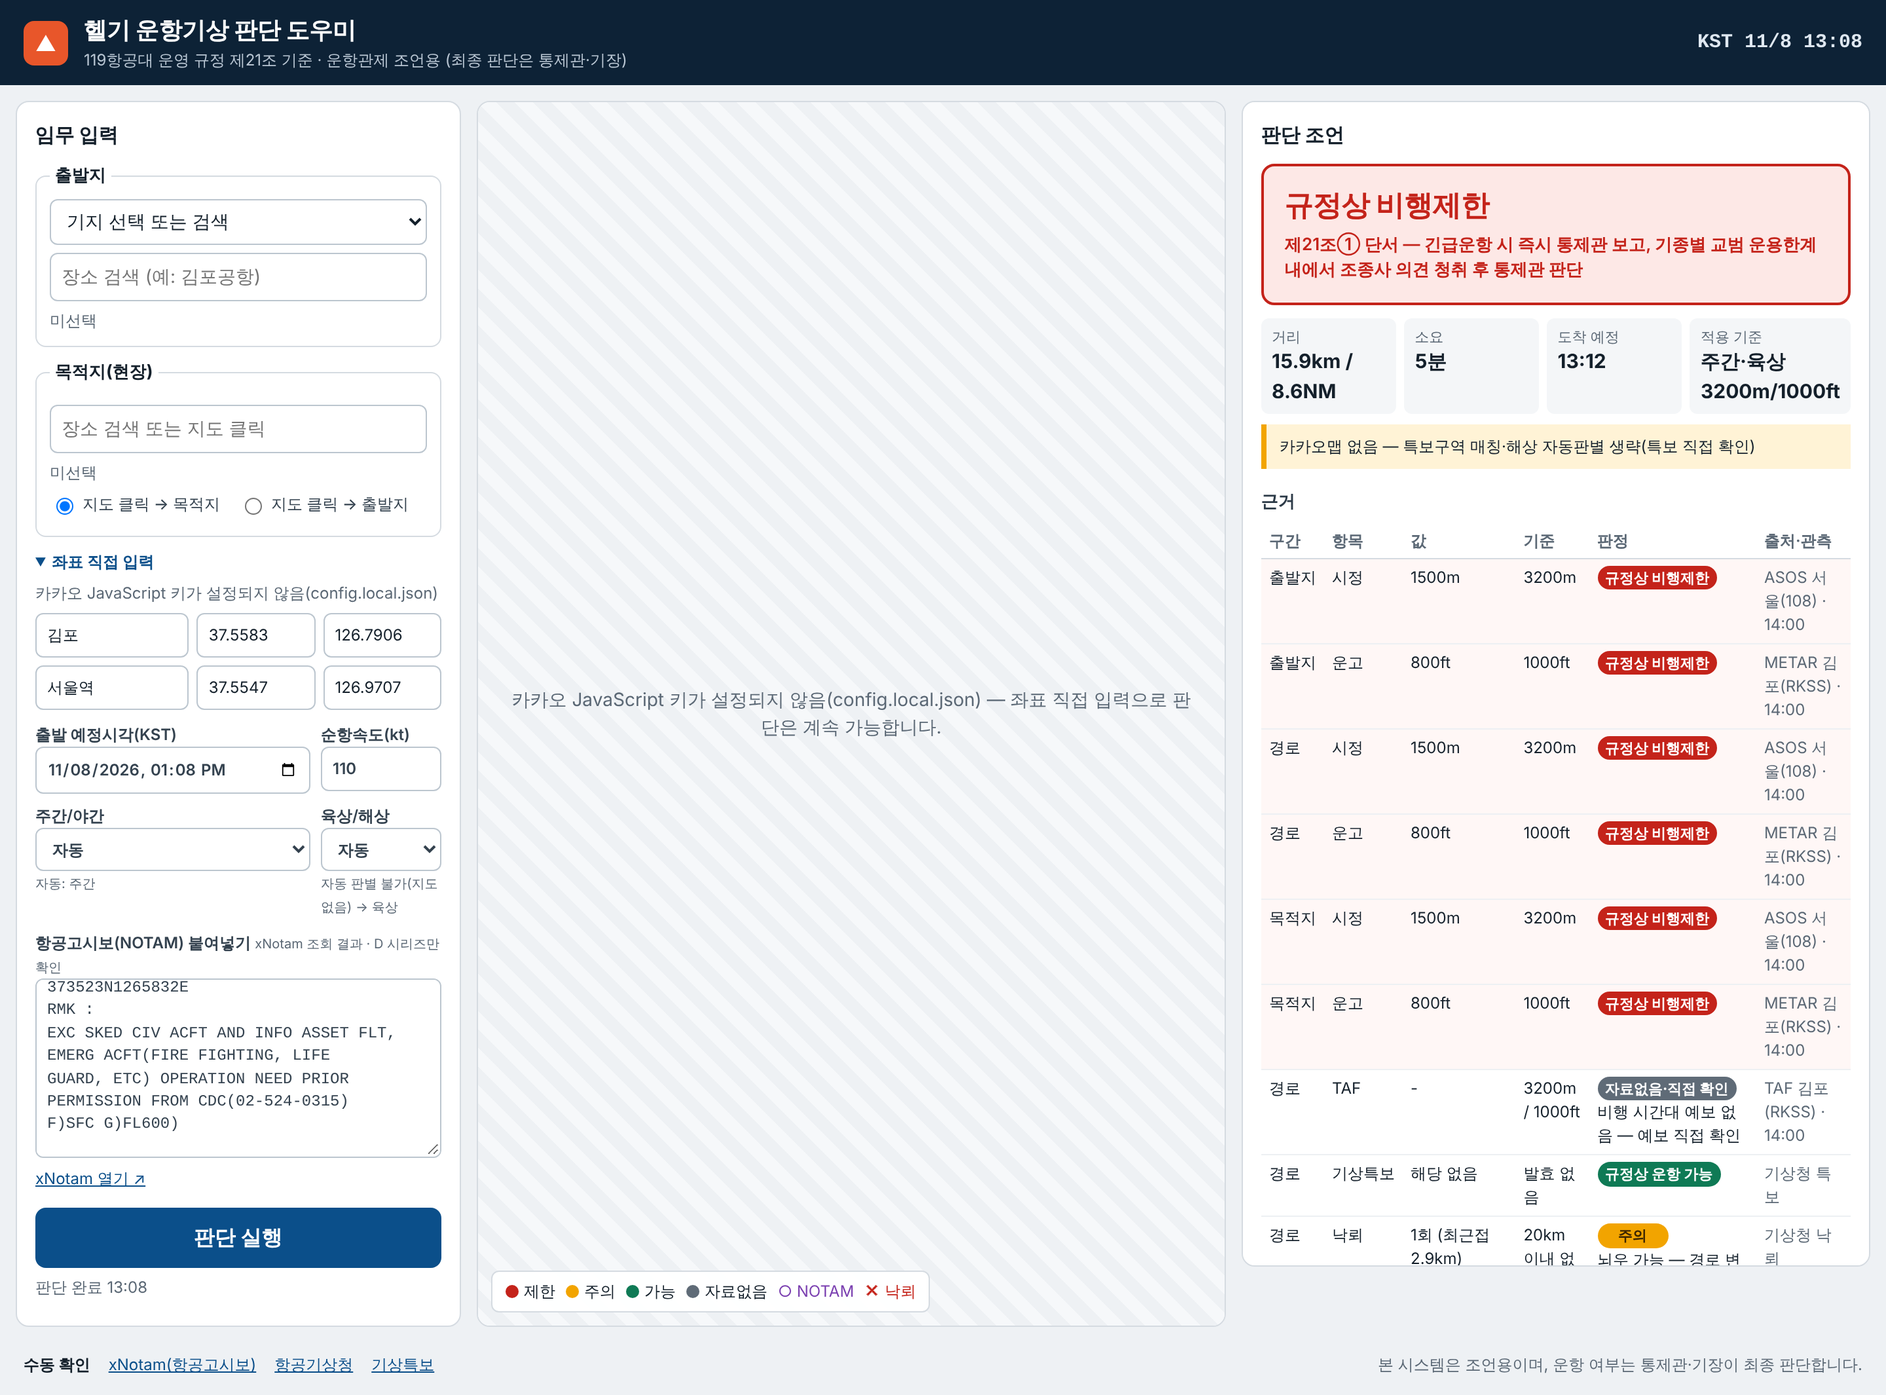
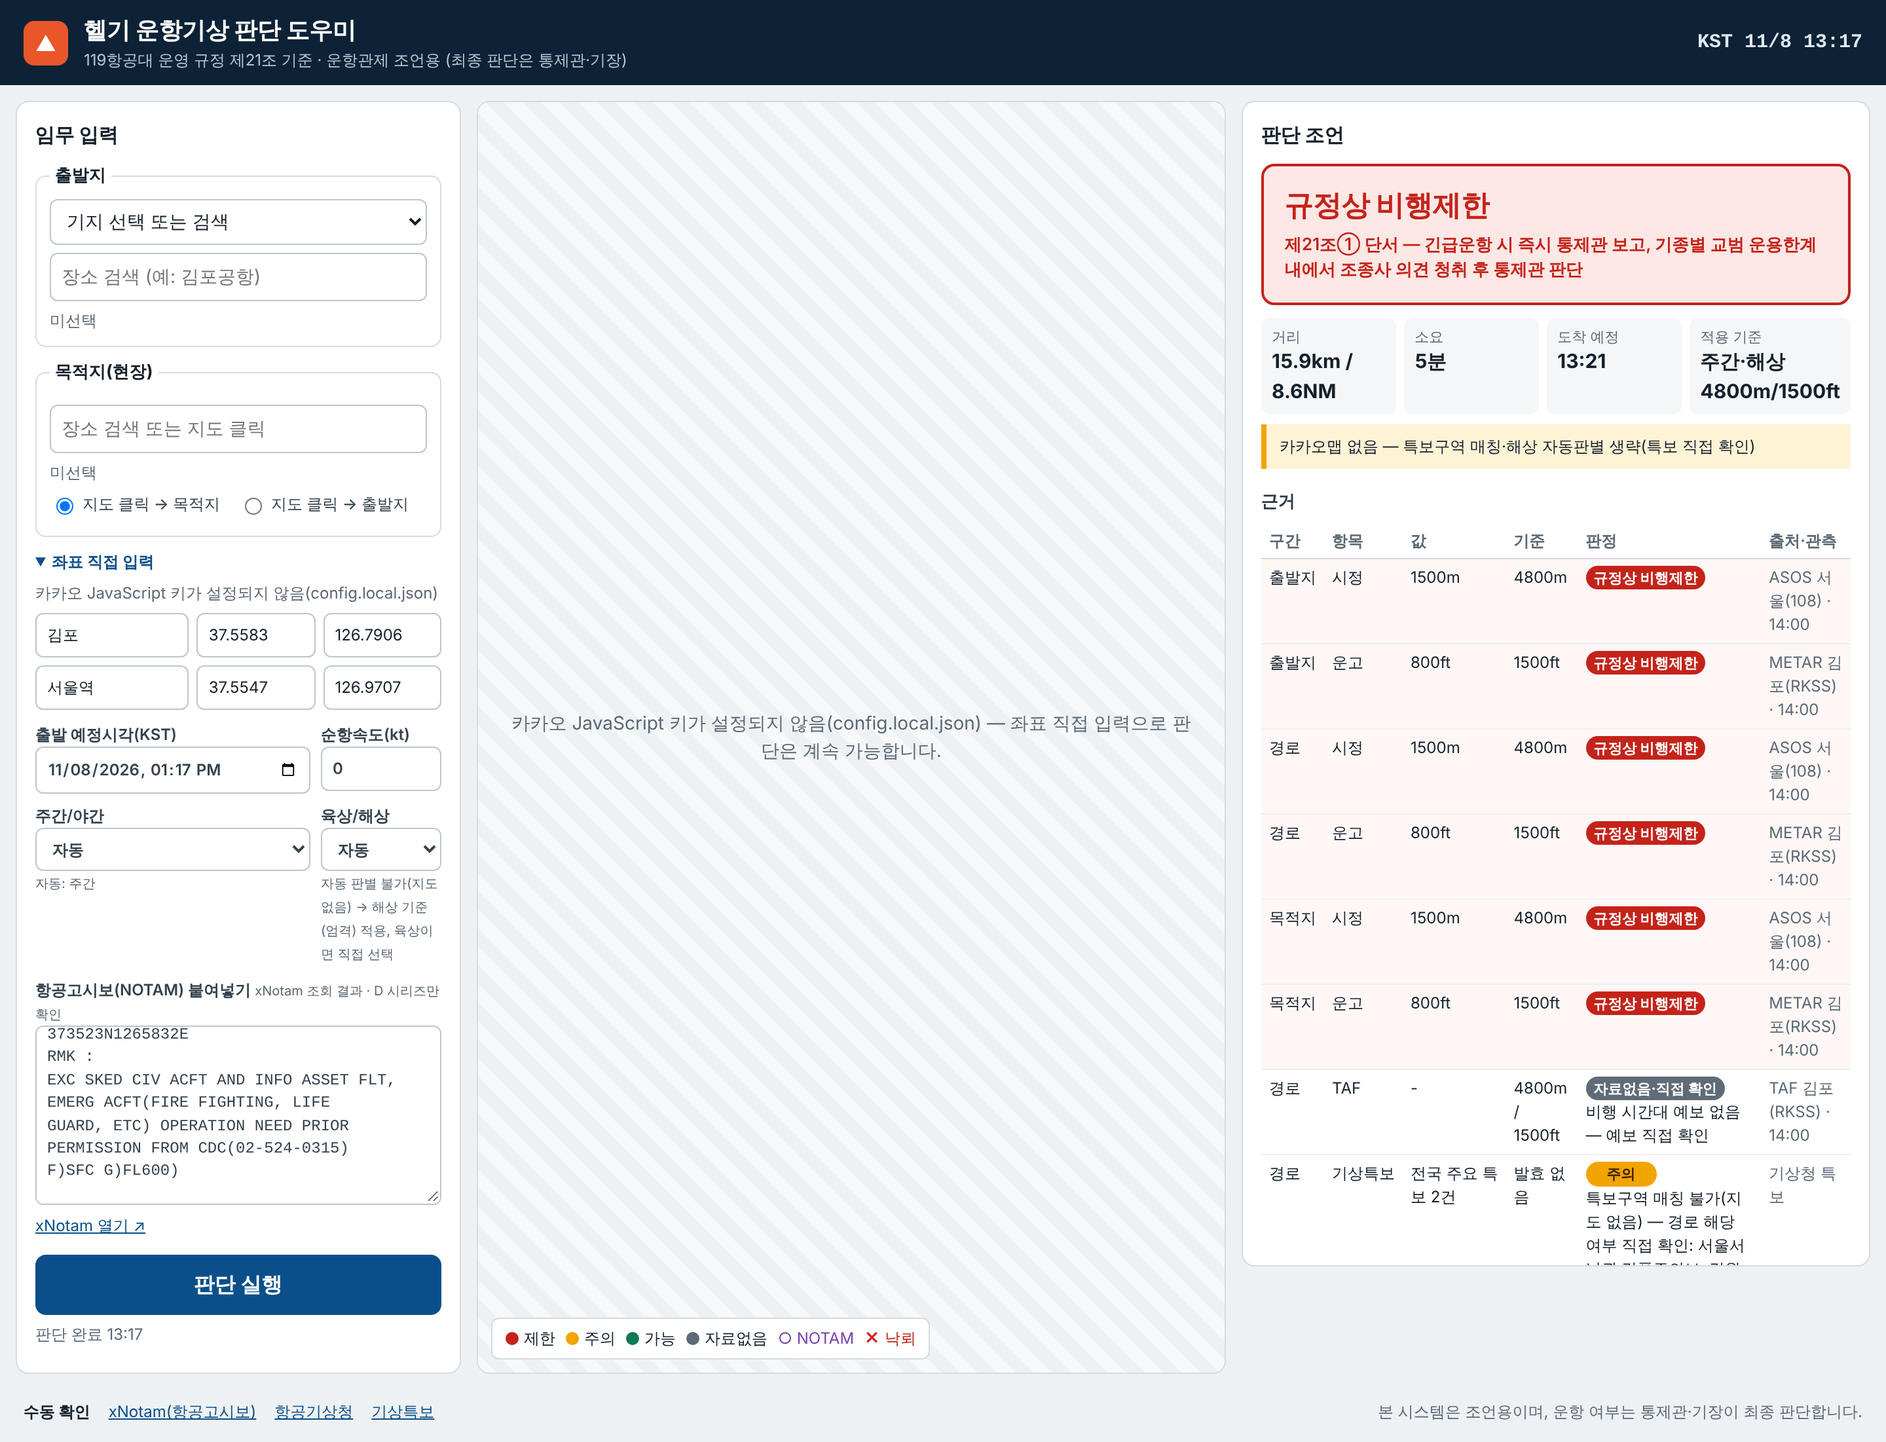
fix: 자료 없음·해석 실패 시 '운항 가능' 표시되던 경로 차단(최종 리뷰 반영)
Claude-Session: https://claude.ai/code/session_01D4aUP7G1VT7bA5gXLCwCsY

diff --git a/web/judge.js b/web/judge.js
@@ -45,7 +45,7 @@ function nearest(items, p, maxKm) {
 const alongRoute = (items, a, b, maxKm) => items.filter((it) => has(it) && pointToSegmentKm(it, a, b) <= maxKm);
 
 // 관측 하나가 '운고 정보'를 가지고 있는지(구름 적음 = 운고 없음과 결측을 구분)
-const hasCeilInfo = (o) => (o.icao ? o.visM !== null && o.visM !== undefined : o.cloudTenths !== null && o.cloudTenths !== undefined);
+const hasCeilInfo = (o) => (o.ceilUnknown ? false : o.icao ? o.visM !== null && o.visM !== undefined : o.cloudTenths !== null && o.cloudTenths !== undefined);
 const srcName = (o) => (o.icao ? `METAR ${o.name}(${o.icao})` : `ASOS ${o.name}(${o.stn})`);
 
 function obsRows(segment, obs, limits, input) {
@@ -102,17 +102,26 @@ function tafRows(tafs, limits, departUtc, arriveUtc) {
 const sidoKey = (s) => String(s || '').replace(/(특별자치도|특별자치시|특별시|광역시|도)$/, '');
 const sggKey = (s) => String(s || '').split(' ')[0].replace(/(시|군|구)$/, '');
 
-function warnRows(warns, regions, status) {
+function warnRows(warns, regions, status, regionsAvailable, seaRoute) {
   if (status === 'error') return [{ segment: '경로', item: '기상특보', value: '-', limit: '발효 없음', grade: 'NA', source: '기상청 특보', obsTime: null, note: '특보 자료 수신 실패 — 직접 확인' }];
+  const active = warns.filter((w) => !/해제/.test(w.cmd || ''));
+  const isCritical = (w) => CRITICAL_WARN.includes(w.kind) && /주의보|경보/.test(w.level || '');
+  if (!regionsAvailable) {
+    const crit = active.filter(isCritical);
+    if (!crit.length) return [{ segment: '경로', item: '기상특보', value: '전국 주요 특보 없음', limit: '발효 없음', grade: 'GREEN', source: '기상청 특보', obsTime: null, note: '' }];
+    return [{ segment: '경로', item: '기상특보', value: `전국 주요 특보 ${crit.length}건`, limit: '발효 없음', grade: 'YELLOW', source: '기상청 특보', obsTime: null,
+      note: '특보구역 매칭 불가(지도 없음) — 경로 해당 여부 직접 확인: ' + crit.slice(0, 5).map((w) => `${w.regName} ${w.kind}${w.level}`).join(', ') }];
+  }
   const rows = [];
-  for (const w of warns) {
-    if (/해제/.test(w.cmd || '')) continue;
+  for (const w of active) {
     const critical = CRITICAL_WARN.includes(w.kind) && /주의보|경보/.test(w.level || '');
     const exact = regions.some((r) => { const k = sggKey(r.sigungu); return k.length >= 2 && String(w.regName || '').includes(k); });
     const sido = regions.some((r) => sidoKey(r.sido) && sidoKey(r.sido) === sidoKey(w.regUpName));
+    const seaZone = seaRoute && critical && /바다|해상|연안/.test(w.regName || '');
     let grade = null, note = '';
     if (exact) { grade = critical ? 'RED' : 'YELLOW'; note = critical ? '경로·목적지 특보구역 발효(제21조①4)' : '참고 특보 발효'; }
     else if (sido && critical) { grade = 'YELLOW'; note = '같은 시·도 특보 — 특보구역 확인 필요'; }
+    else if (seaZone) { grade = 'YELLOW'; note = '해상 구간 — 해상 특보구역 확인 필요'; }
     if (grade) rows.push({ segment: '경로', item: '기상특보', value: `${w.regName} ${w.kind}${w.level}`, limit: '발효 없음', grade, source: '기상청 특보', obsTime: w.tmEf || null, note });
   }
   if (!rows.length) rows.push({ segment: '경로', item: '기상특보', value: '해당 없음', limit: '발효 없음', grade: 'GREEN', source: '기상청 특보', obsTime: null, note: '' });
@@ -122,6 +131,7 @@ function warnRows(warns, regions, status) {
 function lightningRow(items, a, b, input) {
   const { config, now, dataStatus = {} } = input;
   const base = { segment: '경로', item: '낙뢰', limit: `${config.radius.lightningKm}km 이내 없음`, source: '기상청 낙뢰', obsTime: null };
+  if (dataStatus.lightning === 'stale') return { ...base, value: '-', grade: 'NA', note: '낙뢰 자료 오래됨 — 레이더 직접 확인' };
   if (dataStatus.lightning === 'error') return { ...base, value: '-', grade: 'NA', note: '낙뢰 자료 수신 실패 — 레이더 직접 확인' };
   const near = items.filter((l) => ageMin(l.time, now) <= config.freshnessMin.lightning && has(l))
     .map((l) => pointToSegmentKm(l, a, b)).filter((d) => d <= config.radius.lightningKm);
@@ -146,7 +156,8 @@ function windInfo(segment, p, aws, metars, now, config) {
 }
 
 export function evaluate(input) {
-  const { from, to, departUtc, cruiseKt, isNight, isSea, data, config, notams = [], notamsProvided = notams.length > 0, routeRegions = [], dataStatus = {}, now } = input;
+  const { from, to, departUtc, isNight, isSea, data, config, notams = [], notamsProvided = notams.length > 0, routeRegions = [], regionsAvailable = routeRegions.length > 0, seaRoute = false, dataStatus = {}, now } = input;
+  const cruiseKt = Number.isFinite(input.cruiseKt) && input.cruiseKt >= 40 && input.cruiseKt <= 250 ? input.cruiseKt : config.cruiseKt;
   const distKm = distanceKm(from, to);
   const durationMin = distKm === 0 ? 0 : (distKm / (cruiseKt * KM_PER_NM)) * 60;
   const arriveUtc = new Date(departUtc.getTime() + durationMin * 60e3);
@@ -161,7 +172,7 @@ export function evaluate(input) {
     ...obsRows('경로', routeObs, limits, input),
     ...obsRows('목적지', pick(to), limits, input),
     ...tafRows(alongRoute(data.taf || [], from, to, metarKm), limits, departUtc, arriveUtc),
-    ...warnRows(data.warn || [], routeRegions, dataStatus.warn),
+    ...warnRows(data.warn || [], routeRegions, dataStatus.warn, regionsAvailable, seaRoute),
     lightningRow(data.lightning || [], from, to, input),
   ];
 
@@ -171,8 +182,8 @@ export function evaluate(input) {
   else if (!relevant.length) rows.push({ segment: '경로', item: 'NOTAM', value: `경로 관련 D NOTAM 없음 (입력 ${assessed.length}건)`, limit: '경로 관련 없음', grade: 'GREEN', source: 'xNotam', obsTime: null, note: '' });
   for (const n of relevant) {
     const rel = n.relation === 'CROSS' ? '경로 통과' : n.relation === 'NEAR' ? `경로 ${n.distanceNm.toFixed(1)}NM 근접` : '위치 해석 불가';
-    rows.push({ segment: '경로', item: 'NOTAM', value: `${n.id} ${n.qcodeText || ''} ${rel}`.trim(), limit: '경로 관련 없음', grade: n.grade, source: 'xNotam', obsTime: null,
-      note: n.needsPermission ? `소방헬기 사전허가 필요${n.phones.length ? ' ' + n.phones.join(', ') : ''}` : (n.parseError || '') });
+    rows.push({ segment: '경로', item: 'NOTAM', value: `${n.id || '해석 불가'} ${n.qcodeText || ''} ${rel}`.trim(), limit: '경로 관련 없음', grade: n.grade, source: 'xNotam', obsTime: null,
+      note: n.needsPermission ? `소방헬기 사전허가 필요${n.phones.length ? ' ' + n.phones.join(', ') : ''}` : (n.parseError ? n.parseError + ' — 원문 확인' : '') });
   }
 
   const wind = [windInfo('출발지', from, data.aws || [], metars, now, config), windInfo('목적지', to, data.aws || [], metars, now, config)];

diff --git a/web/app.js b/web/app.js
@@ -40,7 +40,10 @@ function kstInputNow() {
   const k = new Date(Date.now() + 9 * 3600e3);
   return k.toISOString().slice(0, 16);
 }
-const departUtc = () => new Date(($('depart').value || kstInputNow()) + ':00+09:00');
+const departUtc = () => {
+  const d = new Date(($('depart').value || kstInputNow()).slice(0, 16) + ':00+09:00');
+  return Number.isFinite(d.getTime()) ? d : new Date();
+};
 
 // ---------- 카카오맵 ----------
 function kakaoFailed(msg) {
@@ -122,9 +125,14 @@ function readPlace(which) {
   return state[which];
 }
 
+function cruiseKt() {
+  const v = Number($('cruise').value);
+  return Number.isFinite(v) && v >= 40 && v <= 250 ? v : state.config.cruiseKt;
+}
+
 function flightTimes(from, to) {
   const dep = departUtc();
-  const min = (distanceKm(from, to) / (Number($('cruise').value || state.config.cruiseKt) * KM_PER_NM)) * 60;
+  const min = (distanceKm(from, to) / (cruiseKt() * KM_PER_NM)) * 60;
   return { dep, arr: new Date(dep.getTime() + min * 60e3) };
 }
 
@@ -171,20 +179,26 @@ async function run() {
       if (s.status === 'rejected') { data[k] = []; dataStatus[k] = 'error'; warns.push(`${KIND_TEXT[k]} 수신 실패`); return; }
       data[k] = s.value.items || [];
       if (s.value.error && !data[k].length) { dataStatus[k] = 'error'; warns.push(`${KIND_TEXT[k]} 수신 실패`); }
-      else if (s.value.stale) warns.push(`${KIND_TEXT[k]} ${s.value.ageMin}분 전 자료 사용(재수신 실패)`);
+      else if (s.value.stale) {
+        warns.push(`${KIND_TEXT[k]} ${s.value.ageMin}분 전 자료 사용(재수신 실패)`);
+        const lim = state.config.freshnessMin[k];
+        if (lim && s.value.ageMin > lim) dataStatus[k] = 'stale';
+      }
     });
 
     const { dep, arr } = flightTimes(from, to);
     const dn = $('daynight').value, ls = $('landsea').value;
     const isNight = dn === 'auto' ? isNightDuring(from, to, dep, arr) : dn === 'night';
     const seaSuggest = rr.available && rr.seaPoints > 0;
-    const isSea = ls === 'auto' ? seaSuggest : ls === 'sea';
-    $('landsea-auto').textContent = rr.available ? `자동: ${seaSuggest ? '해상 구간 포함' : '육상'}` : '자동 판별 불가(지도 없음) → 육상';
+    // 판별 불가 시 더 엄격한 해상 기준을 적용한다
+    const isSea = ls === 'auto' ? (rr.available ? seaSuggest : true) : ls === 'sea';
+    $('landsea-auto').textContent = rr.available ? `자동: ${seaSuggest ? '해상 구간 포함' : '육상'}` : '자동 판별 불가(지도 없음) → 해상 기준(엄격) 적용, 육상이면 직접 선택';
     if (!rr.available) warns.push('카카오맵 없음 — 특보구역 매칭·해상 자동판별 생략(특보 직접 확인)');
 
     const text = $('notam-text').value;
     const result = evaluate({
-      from, to, departUtc: dep, cruiseKt: Number($('cruise').value || state.config.cruiseKt), isNight, isSea, data, dataStatus,
+      from, to, departUtc: dep, cruiseKt: cruiseKt(), isNight, isSea, data, dataStatus,
+      regionsAvailable: rr.available, seaRoute: seaSuggest || (isSea && !rr.available),
       notams: splitNotams(text).map(parseNotam), notamsProvided: text.trim().length > 0,
       routeRegions: rr.regions, now: new Date(), config: state.config,
     });

diff --git a/web/notam.js b/web/notam.js
@@ -1,7 +1,7 @@
 // NOTAM 해석기: D 시리즈만 확인 대상, 구역 좌표는 E) 우선(도분초), 실패 시 Q-line(도분) 근사
 import { pointToSegmentKm, KM_PER_NM } from './geo.js';
 
-const START_RE = /\(?\s*([A-Z]\d{4}\/\d{2})\s+NOTAM[NRC]\b/g;
+const START_RE = /\(?\s*([A-Z]\d{4}\/\d{2})\s+NOTAM\s?[NRC]\b/g;
 export const QCODE_TEXT = {
   QRPCA: '비행금지구역 활성', QRRCA: '제한구역 활성', QRDCA: '위험구역 활성',
   QWULW: '무인기 비행', QOBCE: '장애물 설치', QWPLW: '낙하산 강하',
@@ -11,7 +11,10 @@ export function splitNotams(text) {
   const src = String(text || '');
   const idx = [...src.matchAll(START_RE)].map((m) => m.index);
   if (idx.length === 0) return src.trim() ? [src.trim()] : [];
-  return idx.map((s, i) => src.slice(s, idx[i + 1] ?? src.length).trim());
+  const out = idx.map((s, i) => src.slice(s, idx[i + 1] ?? src.length).trim());
+  const prefix = src.slice(0, idx[0]);
+  if (/[QE]\)/.test(prefix)) out.unshift(prefix.trim()); // 첫 NOTAM 앞 본문은 버리지 않고 해석 불가로 표시
+  return out;
 }
 
 function utc(yymmddhhmm) {
@@ -27,7 +30,7 @@ export function parseNotam(raw) {
   const n = { id: null, series: null, kind: null, qcode: null, qcodeText: null, center: null, radiusNm: null,
     geomSource: null, start: null, end: null, endPerm: false, endEst: false, lower: '', upper: '', text: '',
     needsPermission: false, phones: [], parseError: null, raw: t };
-  const head = /([A-Z])(\d{4}\/\d{2})\s+NOTAM([NRC])/.exec(flat);
+  const head = /([A-Z])(\d{4}\/\d{2})\s+NOTAM\s?([NRC])/.exec(flat);
   if (!head) { n.parseError = 'NOTAM 번호를 찾을 수 없음'; return n; }
   n.id = head[1] + head[2]; n.series = head[1]; n.kind = head[3];
 
@@ -61,7 +64,7 @@ export function parseNotam(raw) {
 }
 
 export function assessNotam(n, routeA, routeB, departUtc, arriveUtc, nearNm = 5) {
-  const out = { ...n, inScope: n.series === 'D', distanceNm: null, relation: 'UNKNOWN', activeDuringFlight: null, grade: 'NA' };
+  const out = { ...n, inScope: !n.id || n.series === 'D', distanceNm: null, relation: 'UNKNOWN', activeDuringFlight: null, grade: 'NA' };
   if (n.start) {
     const endOk = n.endPerm || !n.end || n.end >= departUtc;
     out.activeDuringFlight = n.start <= arriveUtc && endOk;
@@ -75,6 +78,5 @@ export function assessNotam(n, routeA, routeB, departUtc, arriveUtc, nearNm = 5)
   else if (!n.center) out.grade = 'NA';
   else if ((out.relation === 'CROSS' || out.relation === 'NEAR') && out.activeDuringFlight !== false) out.grade = 'YELLOW';
   else out.grade = 'GREEN';
-  if (!n.id) out.inScope = false;
   return out;
 }

diff --git a/web/geo.js b/web/geo.js
@@ -58,6 +58,7 @@ function isNightAt(p, t) {
 
 // 출발~도착 구간 중 어느 시점이든 출발지 또는 목적지가 야간이면 true (5분 간격 검사)
 export function isNightDuring(from, to, departUtc, arriveUtc) {
+  if (!Number.isFinite(departUtc?.getTime()) || !Number.isFinite(arriveUtc?.getTime())) return true; // 시각 이상 → 엄격(야간)
   const end = Math.max(departUtc.getTime(), arriveUtc.getTime());
   for (let t = departUtc.getTime(); ; t += 5 * 60e3) {
     const tt = new Date(Math.min(t, end));

diff --git a/server/parsers.py b/server/parsers.py
@@ -93,6 +93,7 @@ def parse_asos(text, stations):
             out.append({'stn': r['STN'], 'name': st['name'], 'lat': st['lat'], 'lon': st['lon'],
                         'obsTime': kst_to_iso(r['TM']), 'visM': None if vs is None else int(vs * 10),
                         'ceilFt': ceil, 'cloudTenths': None if ca is None else int(ca),
+                        'ceilUnknown': ca is not None and ca >= 6 and ch is None,
                         'windDir': num(r['WD']), 'windMs': num(r['WS']), 'gustMs': num(r['GST_WS'])})
         except (KeyError, ValueError, TypeError):
             continue
@@ -204,9 +205,12 @@ def parse_metar(raw, airports, now=None):
                 gk = int(w.group(3)) if w.group(3) else None
                 break
         vis, ceil = _vis_ceil(body)
+        # 운고 높이 미상: BKN///·OVC///·VV/// 이거나, 구름 정보 그룹이 아예 없음
+        no_ceil_ok = any(t in ('CAVOK', 'NSC', 'NCD', 'SKC', 'CLR') or re.fullmatch(r'(FEW|SCT)\d{3}(CB|TCU)?', t) for t in body)
+        unknown = ceil is None and (any(re.fullmatch(r'(BKN|OVC|VV)///.*', t) for t in body) or not no_ceil_ok)
         ap = _airport(icao, airports)
         return {'icao': icao, 'name': ap['name'], 'lat': ap['lat'], 'lon': ap['lon'], 'obsTime': iso(obs),
-                'visM': vis, 'ceilFt': ceil, 'windDir': wd, 'windKt': wk, 'gustKt': gk, 'raw': raw}
+                'visM': vis, 'ceilFt': ceil, 'ceilUnknown': unknown, 'windDir': wd, 'windKt': wk, 'gustKt': gk, 'raw': raw}
     except (StopIteration, AttributeError, IndexError, ValueError, TypeError):
         return None
 

diff --git a/tests/py/test_parsers.py b/tests/py/test_parsers.py
@@ -73,3 +73,14 @@ class T(unittest.TestCase):
         self.assertIsNone(P.parse_metar('garbage', AIRPORTS, NOW)); self.assertIsNone(P.parse_taf('garbage', AIRPORTS, NOW))
 
 if __name__ == '__main__': unittest.main()
+
+class Review(unittest.TestCase):
+    def test_i1_asos_ceil_unknown(self):
+        line = fx('asos.txt').splitlines()[5].replace('  7   5    8 Sc', '  8   5   -9 Sc')
+        r = P.parse_asos('#\n' + line, {})[0]
+        self.assertEqual(r['cloudTenths'], 8); self.assertIsNone(r['ceilFt']); self.assertTrue(r['ceilUnknown'])
+    def test_i1_metar_ceil_unknown(self):
+        self.assertTrue(P.parse_metar('METAR RKSS 080500Z 32012KT 9999 BKN/// 12/10 Q1015=', AIRPORTS, NOW)['ceilUnknown'])
+        self.assertTrue(P.parse_metar('METAR RKSS 080500Z 32012KT 9999 12/10 Q1015=', AIRPORTS, NOW)['ceilUnknown'])
+        self.assertFalse(P.parse_metar('METAR RKSS 080500Z 32012KT 9999 FEW030 12/10 Q1015=', AIRPORTS, NOW)['ceilUnknown'])
+        self.assertFalse(P.parse_metar('METAR RKSI 080500Z 30008KT CAVOK 13/03 Q1016=', AIRPORTS, NOW)['ceilUnknown'])

diff --git a/server/kma.py b/server/kma.py
@@ -68,7 +68,11 @@ class KmaClient:
         return url + ('&' if '?' in url else '?') + 'authKey=' + self.key
 
     def _get(self, kind, **kw):
-        return self.fetch(self._url(kind, **kw), timeout=self.timeout)
+        text = self.fetch(self._url(kind, **kw), timeout=self.timeout)
+        # typ01 표 형식 응답은 '#' 주석/헤더 줄을 가진다. 없으면 오류 응답(활용신청 안 됨, 인증 실패 등)으로 본다.
+        if kind not in ('metar', 'taf') and not any(l.lstrip().startswith('#') for l in text.splitlines()):
+            raise RuntimeError('기상청 응답 형식 아님: ' + text.strip()[:120])
+        return text
 
     # --- 종류별 수집 ---
     def _stations(self, which):

diff --git a/tests/py/test_server.py b/tests/py/test_server.py
@@ -76,3 +76,10 @@ class HttpTest(unittest.TestCase):
         self.assertTrue(lines[-1].endswith('김포,서울역,15.9,YELLOW'), lines[-1])
 
 if __name__ == '__main__': unittest.main()
+
+class ReviewC1(unittest.TestCase):
+    def test_non_table_body_is_error(self):
+        def f(url, timeout=5): return '{"result":{"status":403,"message":"활용신청하지 않은 API"}}'
+        c = KmaClient(KEY, CONFIG, fetch=f, now=Clock())
+        for kind in ('warn', 'lightning', 'asos', 'aws'):
+            r = c.get(kind); self.assertTrue(r['error'], kind); self.assertEqual(r['items'], [])
